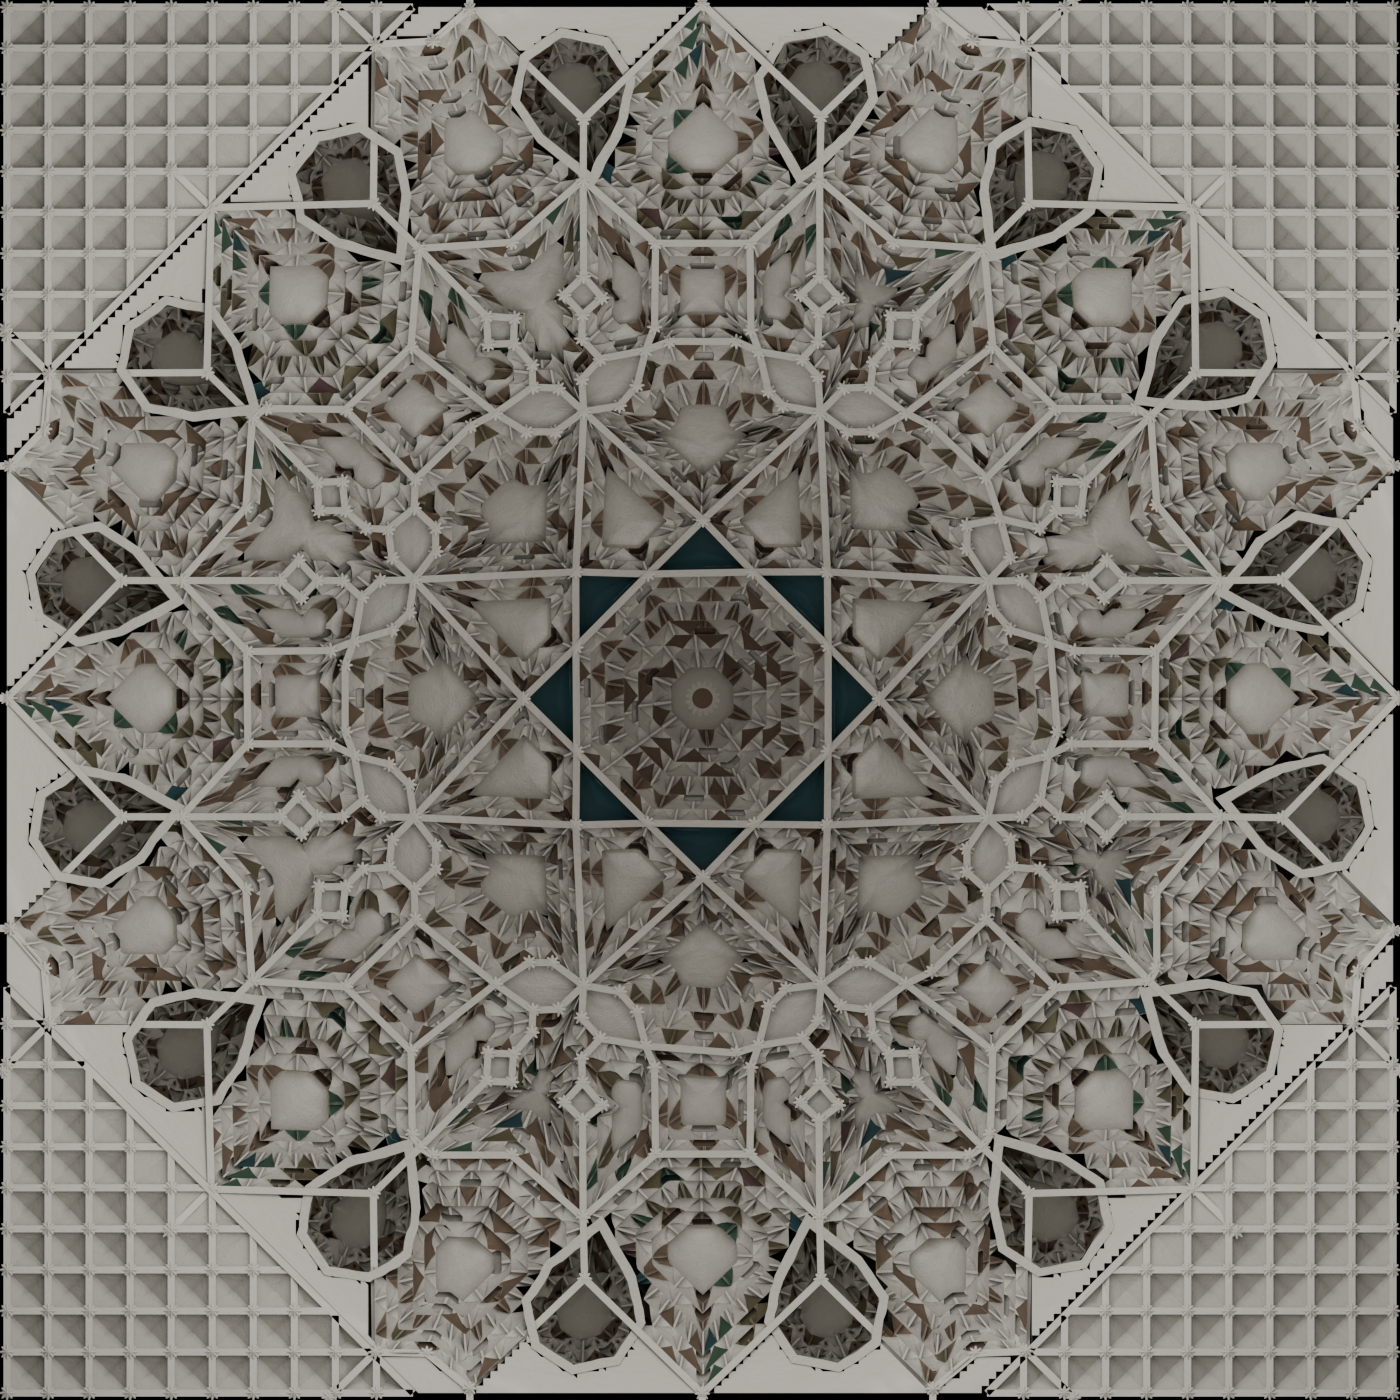
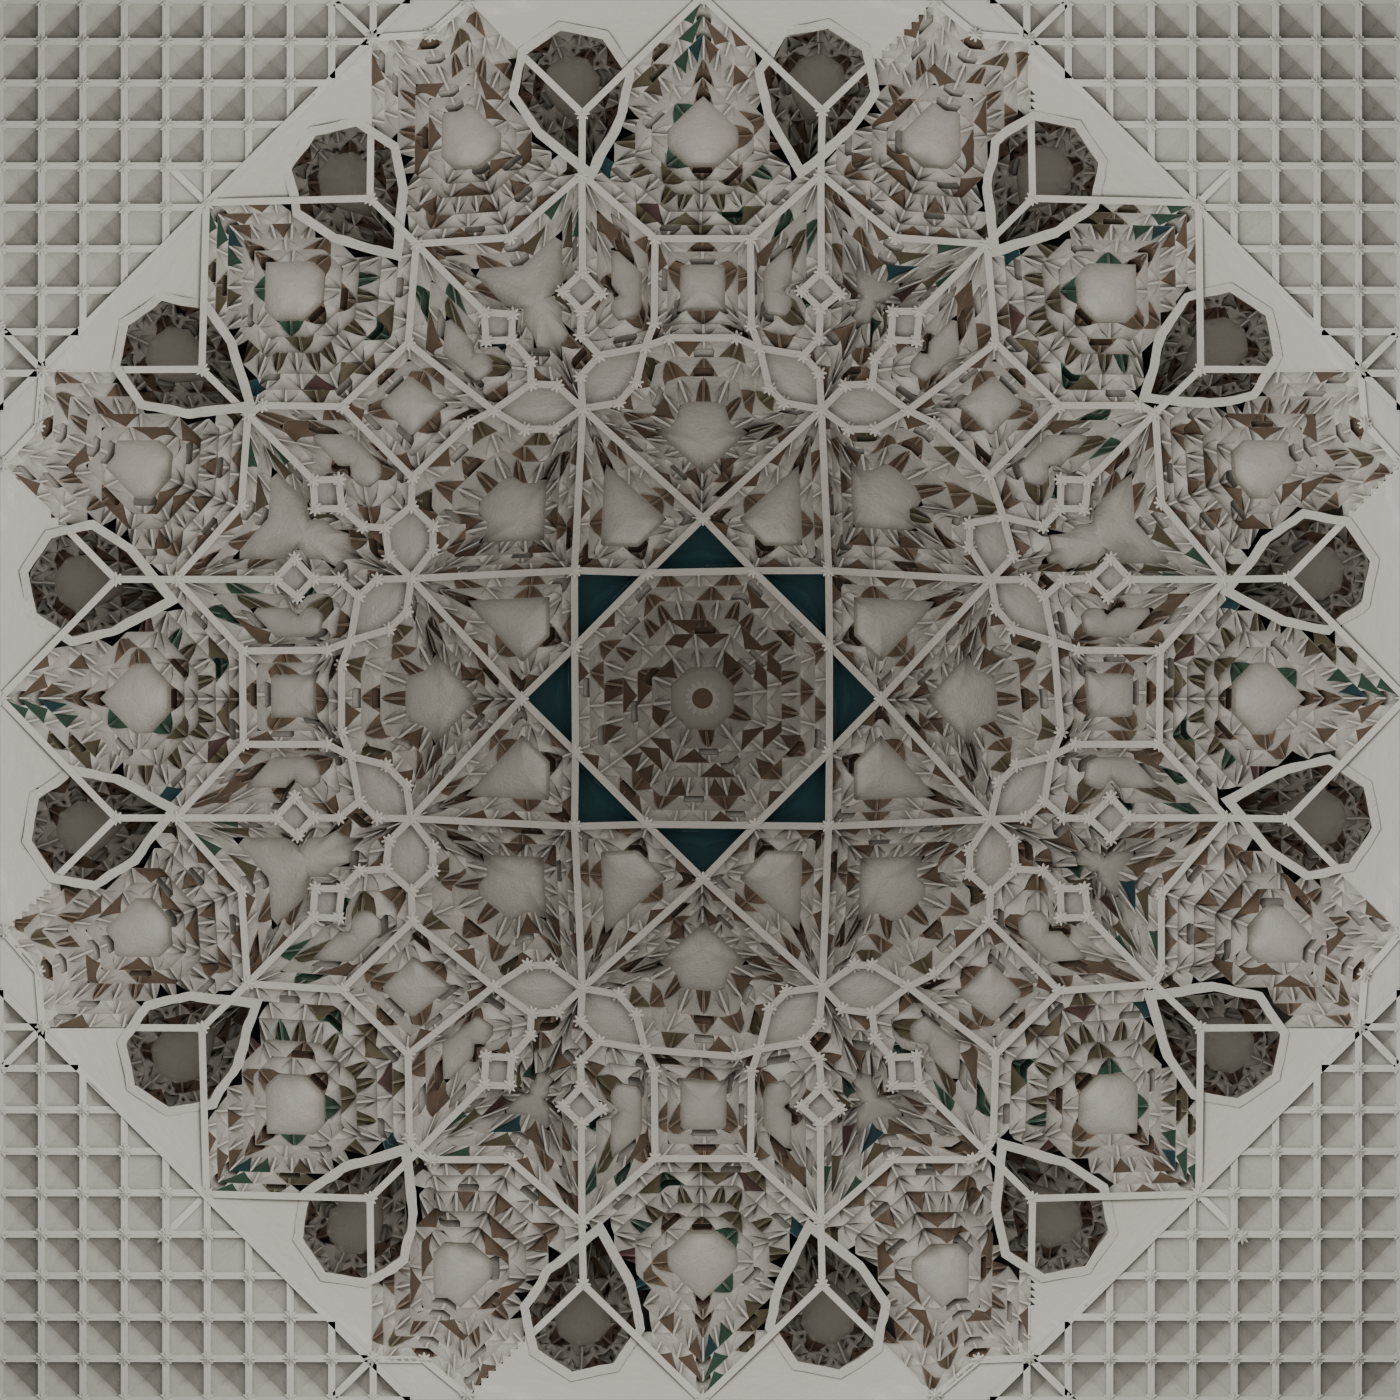
fix(celdas): quita la linea oscura de las diagonales y los dientes del fondo
- Fondo de yeso: cada triangulo toma la altura de su zona con vertices
  propios; los de la frontera a ras/elevado quedaban inclinados y se veian
  como una linea oscura en escalera a lo largo de las diagonales.
- Se quita el fondo que toca la boca de los cupulines (cualquier vertice),
  no el de todo el marco: el marco tapa los dientes. Antes quedaban dientes
  negros fuera del marco o grises dentro de la boca.
- detector_de_marcos admite escala (1 = boca).
- Vista ortogonal encuadrada al lado exacto del cuadrado (31,68).

diff --git a/granada/celdas.py b/granada/celdas.py
@@ -408,25 +408,40 @@ def cupula_red(subdivision: int = 6, color: bool = False, radio_base: float = RA
     # ras del cono fuera de ella, donde no hay celdas que lo tapen. Sin fondo
     # en los marcos de los cupulines, que suben mas que el.
     a = radio_base / _MEDIA_OCT
+    # Se quita el fondo que toca la boca (cualquier vertice dentro), no el del
+    # marco: el marco, mas ancho que una celda de la rejilla, queda por delante
+    # y tapa los dientes. Quitarlo en todo el marco dejaba dientes negros fuera;
+    # quitarlo solo por el centroide dejaba dientes grises dentro.
+    en_boca = detector_de_marcos(huecos, radio_base, escala=1.0)
     m = 192
     xs = np.linspace(-a, a, m + 1)
-    X, Y = np.meshgrid(xs, xs)
-    dentro_red = _dentro_del_contorno(X.ravel(), Y.ravel()).reshape(X.shape)
     t_oct = a * math.tan(math.pi / 8)
-    dentro_oct = np.abs(X) + np.abs(Y) <= a + t_oct
-    a_ras = dentro_oct & ~dentro_red
-    Z = _cota_cono(X, Y, radio_base) + np.where(a_ras, 0.01, ALTURA_FONDO)
-    Vf = [(float(x), float(y), float(z)) for x, y, z in zip(X.ravel(), Y.ravel(), Z.ravel())]
-    Ff = []
+    # Cada triangulo toma la altura de la zona de su centroide, con vertices
+    # propios: si compartieran vertices entre zonas, los de la frontera
+    # quedarian inclinados y se verian como una linea oscura en escalera.
+    centros_x, centros_y, tris = [], [], []
     for j in range(m):
         for i in range(m):
-            p = j * (m + 1) + i
-            for tri in ((p, p + m + 2, p + 1), (p, p + m + 1, p + m + 2)):
-                cx = sum(Vf[v][0] for v in tri) / 3
-                cy = sum(Vf[v][1] for v in tri) / 3
-                cz = sum(Vf[v][2] for v in tri) / 3
-                if not (huecos and en_marco(np.array([cx, cy, cz]))):
-                    Ff.append(tri)
+            p00 = (xs[i], xs[j])
+            p10 = (xs[i + 1], xs[j])
+            p01 = (xs[i], xs[j + 1])
+            p11 = (xs[i + 1], xs[j + 1])
+            for tri in ((p00, p11, p10), (p00, p01, p11)):
+                tris.append(tri)
+                centros_x.append(sum(p[0] for p in tri) / 3)
+                centros_y.append(sum(p[1] for p in tri) / 3)
+    cx = np.array(centros_x)
+    cy = np.array(centros_y)
+    a_ras = (np.abs(cx) + np.abs(cy) <= a + t_oct) & ~_dentro_del_contorno(cx, cy)
+    Vf, Ff = [], []
+    for tri, ras, x0, y0 in zip(tris, a_ras, cx, cy):
+        alto = 0.01 if ras else ALTURA_FONDO
+        P = [(float(x), float(y), float(_cota_cono(x, y, radio_base)) + alto) for x, y in tri]
+        if huecos and any(en_boca(np.array(v)) for v in P):
+            continue
+        k = len(Vf)
+        Vf.extend(P)
+        Ff.append((k, k + 1, k + 2))
     grupos.append(("fondo", Vf, Ff, ["yeso"] * len(Ff), [0.9] * len(Ff)) if color else ("fondo", Vf, Ff))
     if color:
         grupos.append(("tambor", *_tambor_friso(planta_por_defecto(radio_base, True), radio_base, 0.0)))

diff --git a/granada/cupula.py b/granada/cupula.py
@@ -452,11 +452,12 @@ class Cupulin:
         return math.hypot(x, y) < borde and -4.0 < d @ n < 7.0
 
 
-def detector_de_marcos(huecos, radio_base: float = RADIO_BASE):
-    """Funcion punto -> bool: cae en el marco de algun cupulin. Precalcula los
-    marcos, que `Cupulin.contiene` recalcula en cada llamada."""
+def detector_de_marcos(huecos, radio_base: float = RADIO_BASE, escala: float = MARCO_CUPULIN):
+    """Funcion punto -> bool: cae en el marco de algun cupulin (con escala=1,
+    en su boca). Precalcula los marcos, que `Cupulin.contiene` recalcula en
+    cada llamada."""
     malla = np.linspace(0, 2 * math.pi, len(FORMA_CUPULIN), endpoint=False)
-    marcos = [(*c.marco(radio_base), c.radio * MARCO_CUPULIN) for c in huecos]
+    marcos = [(*c.marco(radio_base), c.radio * escala) for c in huecos]
 
     def dentro(P) -> bool:
         P = np.asarray(P, dtype=float)

diff --git a/scripts/render_cycles.py b/scripts/render_cycles.py
@@ -75,8 +75,9 @@ VISTAS = {
     "cenital": ((0.0, 0.0, -13.0), (0.0, 0.001, 10.0), 90.0),
     # Como la ortoimagen de AA-415_23: proyeccion ortogonal desde abajo, con la
     # cupula entera en el encuadre. El tercer valor es el ancho abarcado
-    # (ortho_scale), no un angulo: el cuadrado de la sala mide 2 x 15,84.
-    "ortogonal": ((0.0, 0.0, -20.0), (0.0, 0.001, 10.0), 32.0),
+    # (ortho_scale), no un angulo: el cuadrado de la sala mide 2 x 15,84
+    # (2 RADIO_BASE / media del octogono); con mas se ve vacio fuera de los muros.
+    "ortogonal": ((0.0, 0.0, -20.0), (0.0, 0.001, 10.0), 31.68),
 }
 ORTOGONALES = {"ortogonal"}
 LUZ_LEVANTAMIENTO_W = 12000.0
